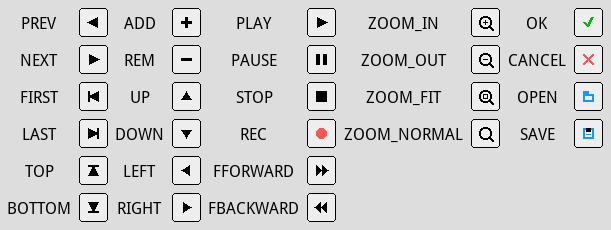
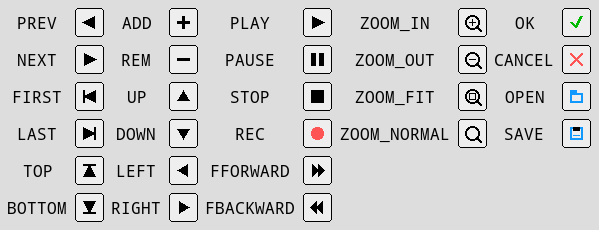
widgets: button: Some fine tuning on stock images.

diff --git a/libs/widgets/gp_widget_button.c b/libs/widgets/gp_widget_button.c
@@ -72,7 +72,7 @@ static void render(gp_widget *self, const gp_offset *offset,
 
 	unsigned int asc = gp_text_ascent(ctx->font);
 	unsigned int asc_half = asc/2;
-	unsigned int sym_r = asc_half - asc_half/4;
+	unsigned int sym_r = GP_EVEN_UP(9 * asc_half/10);
 	unsigned int cx = x + self->w/2;
 	unsigned int cy = y + self->h/2;
 	unsigned int i;
@@ -182,36 +182,40 @@ static void render(gp_widget *self, const gp_offset *offset,
 		             cx-sym_r, cy+sym_r, ctx->text_color);
 	break;
 	case GP_BUTTON_PAUSE:
-		gp_fill_rect(ctx->buf, cx - asc/4 - asc/6,
-		             cy - sym_r, cx - asc/6, cy + sym_r,
+		i = sym_r;
+
+		gp_fill_rect(ctx->buf, cx - i,
+		             cy - i, cx - asc/5, cy + i,
 		             ctx->text_color);
-		gp_fill_rect(ctx->buf, cx + asc/4 + asc/6,
-		             cy - sym_r, cx + asc/6, cy + sym_r,
+		gp_fill_rect(ctx->buf, cx + i,
+		             cy - i, cx + asc/5, cy + i,
 		             ctx->text_color);
 	break;
 	case GP_BUTTON_STOP:
+		i = sym_r - asc_half/8;
+
 		gp_fill_rect(ctx->buf,
-		             cx - sym_r, cy - sym_r,
-		             cx + sym_r, cy + sym_r,
+		             cx - i, cy - i,
+		             cx + i, cy + i,
 		             ctx->text_color);
 	break;
 	case GP_BUTTON_REC:
-		gp_fill_circle(ctx->buf, cx, cy, sym_r, ctx->alert_color);
+		gp_fill_circle(ctx->buf, cx, cy, sym_r - asc_half/8, ctx->alert_color);
 	break;
 	case GP_BUTTON_FFORWARD:
 		gp_symbol(ctx->buf, cx-(sym_r - sym_r/2)+asc_half/4, cy,
-		          sym_r - sym_r/2, sym_r,
+		          sym_r/2, sym_r,
 		          GP_TRIANGLE_RIGHT, ctx->text_color);
 		gp_symbol(ctx->buf, cx+(sym_r - sym_r/2)+asc_half/4, cy,
-		          sym_r - sym_r/2, sym_r,
+		          sym_r/2, sym_r,
 		          GP_TRIANGLE_RIGHT, ctx->text_color);
 	break;
 	case GP_BUTTON_FBACKWARD:
 		gp_symbol(ctx->buf, cx-(sym_r - sym_r/2)-asc_half/4, cy,
-		          sym_r - sym_r/2, sym_r,
+		          sym_r/2, sym_r,
 		          GP_TRIANGLE_LEFT, ctx->text_color);
 		gp_symbol(ctx->buf, cx+(sym_r - sym_r/2)-asc_half/4, cy,
-		          sym_r - sym_r/2, sym_r,
+		          sym_r/2, sym_r,
 		          GP_TRIANGLE_LEFT, ctx->text_color);
 	break;
 	case GP_BUTTON_UP:
